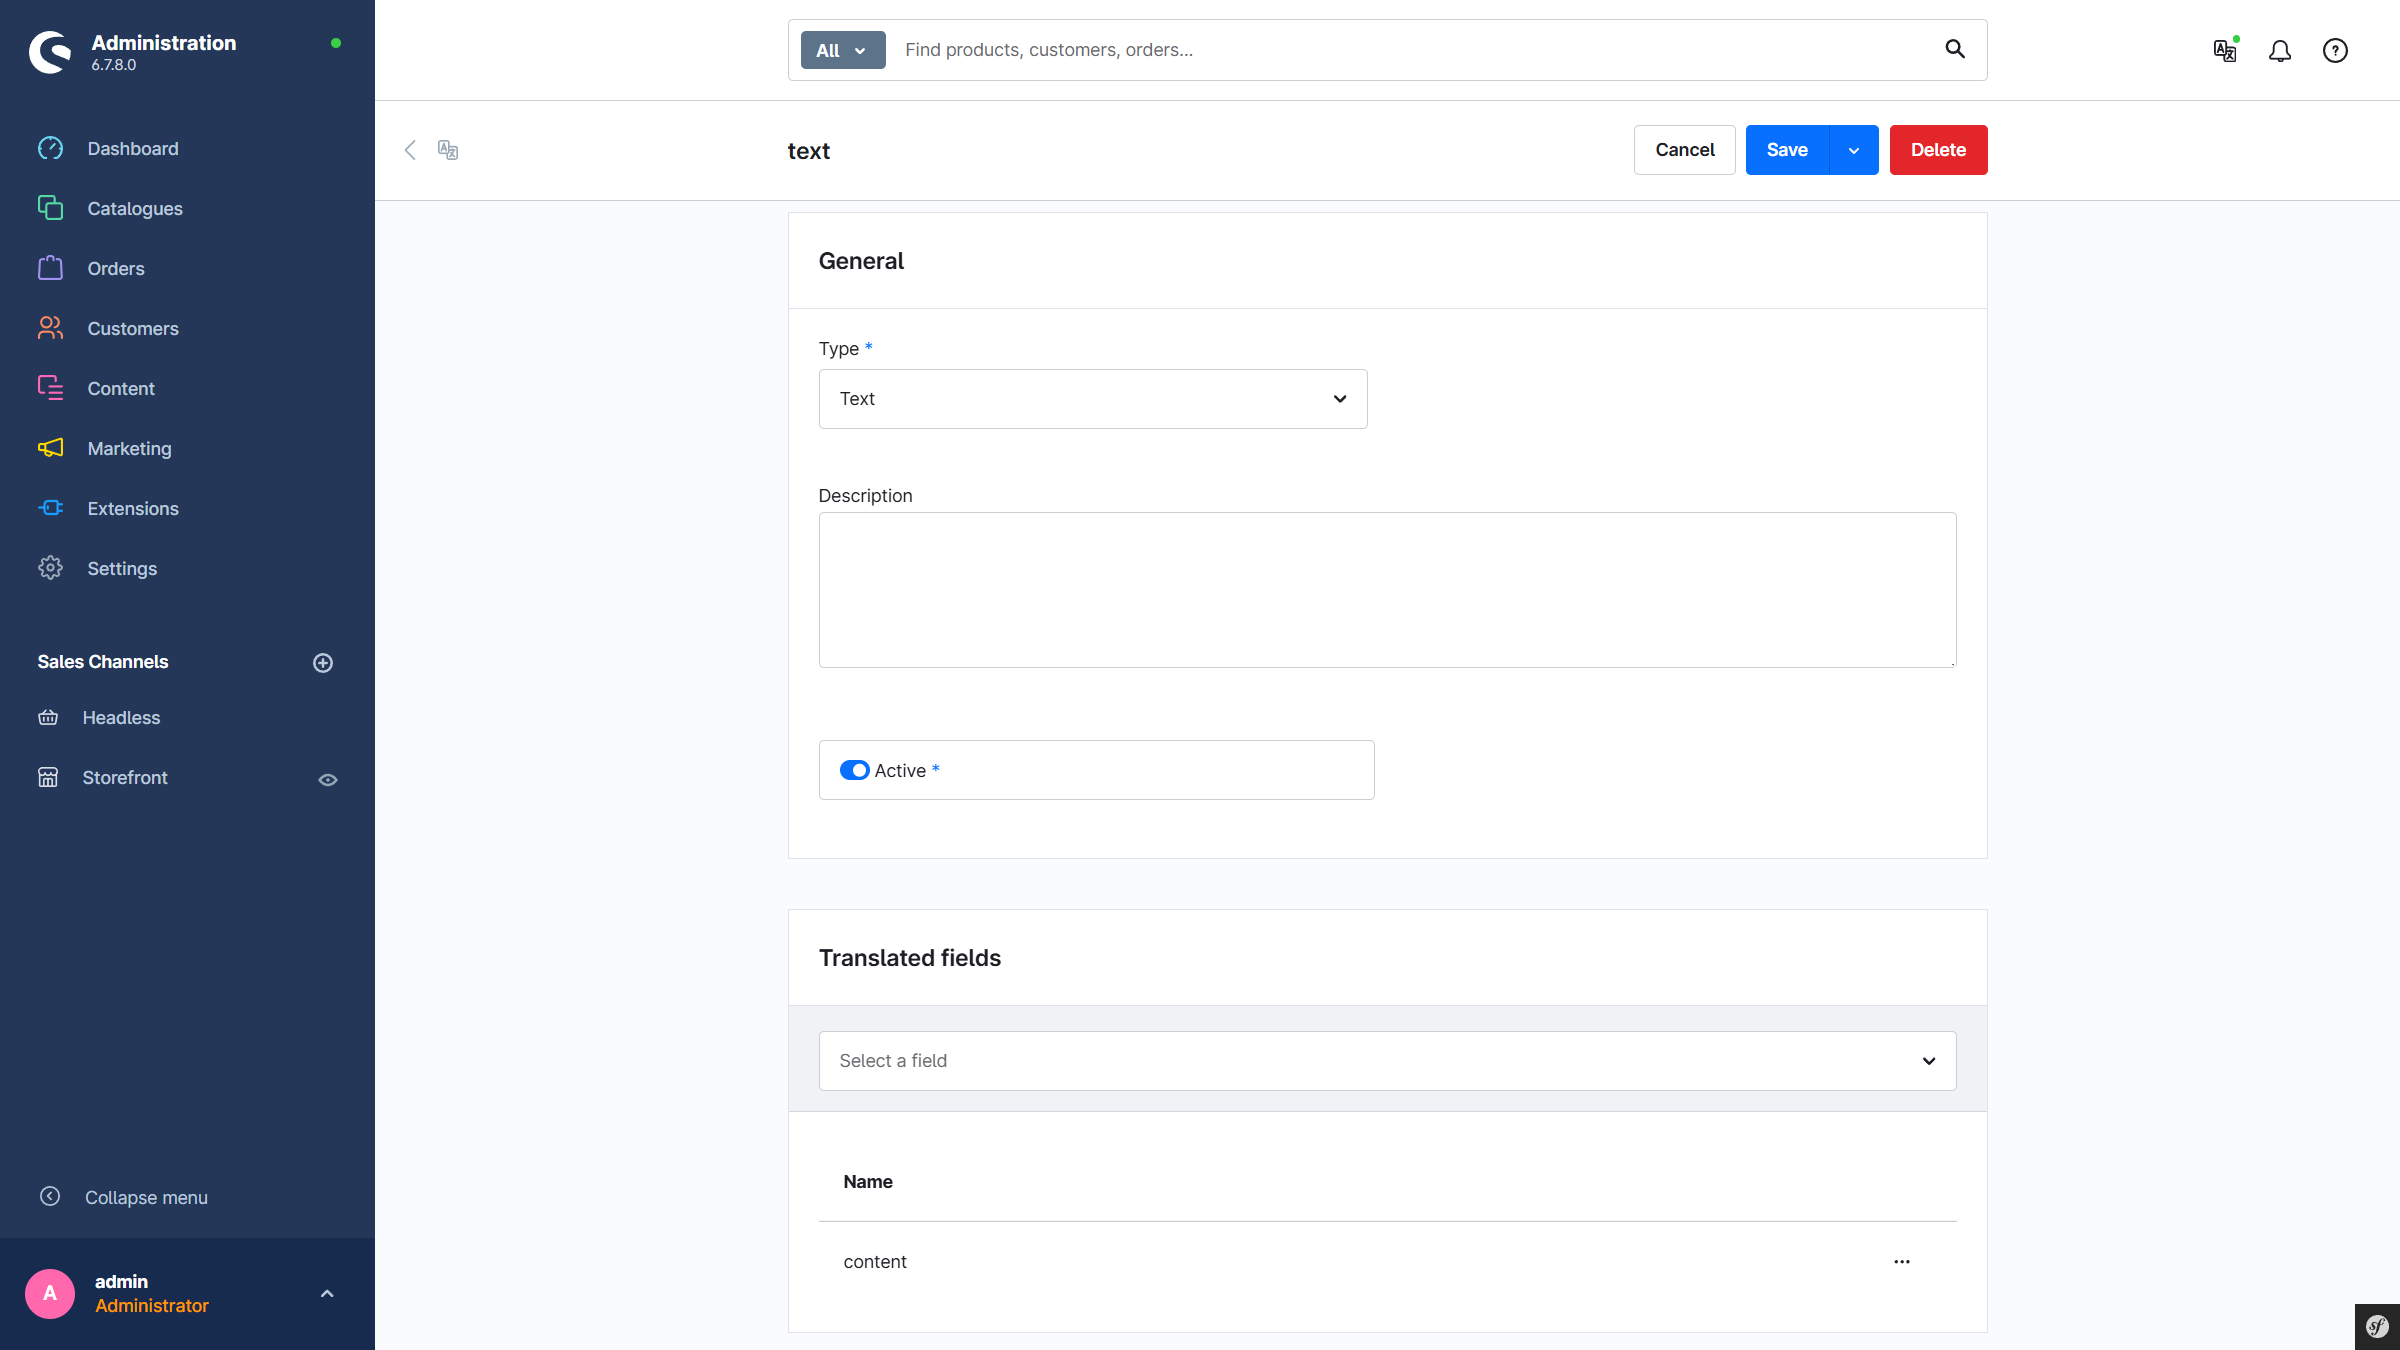
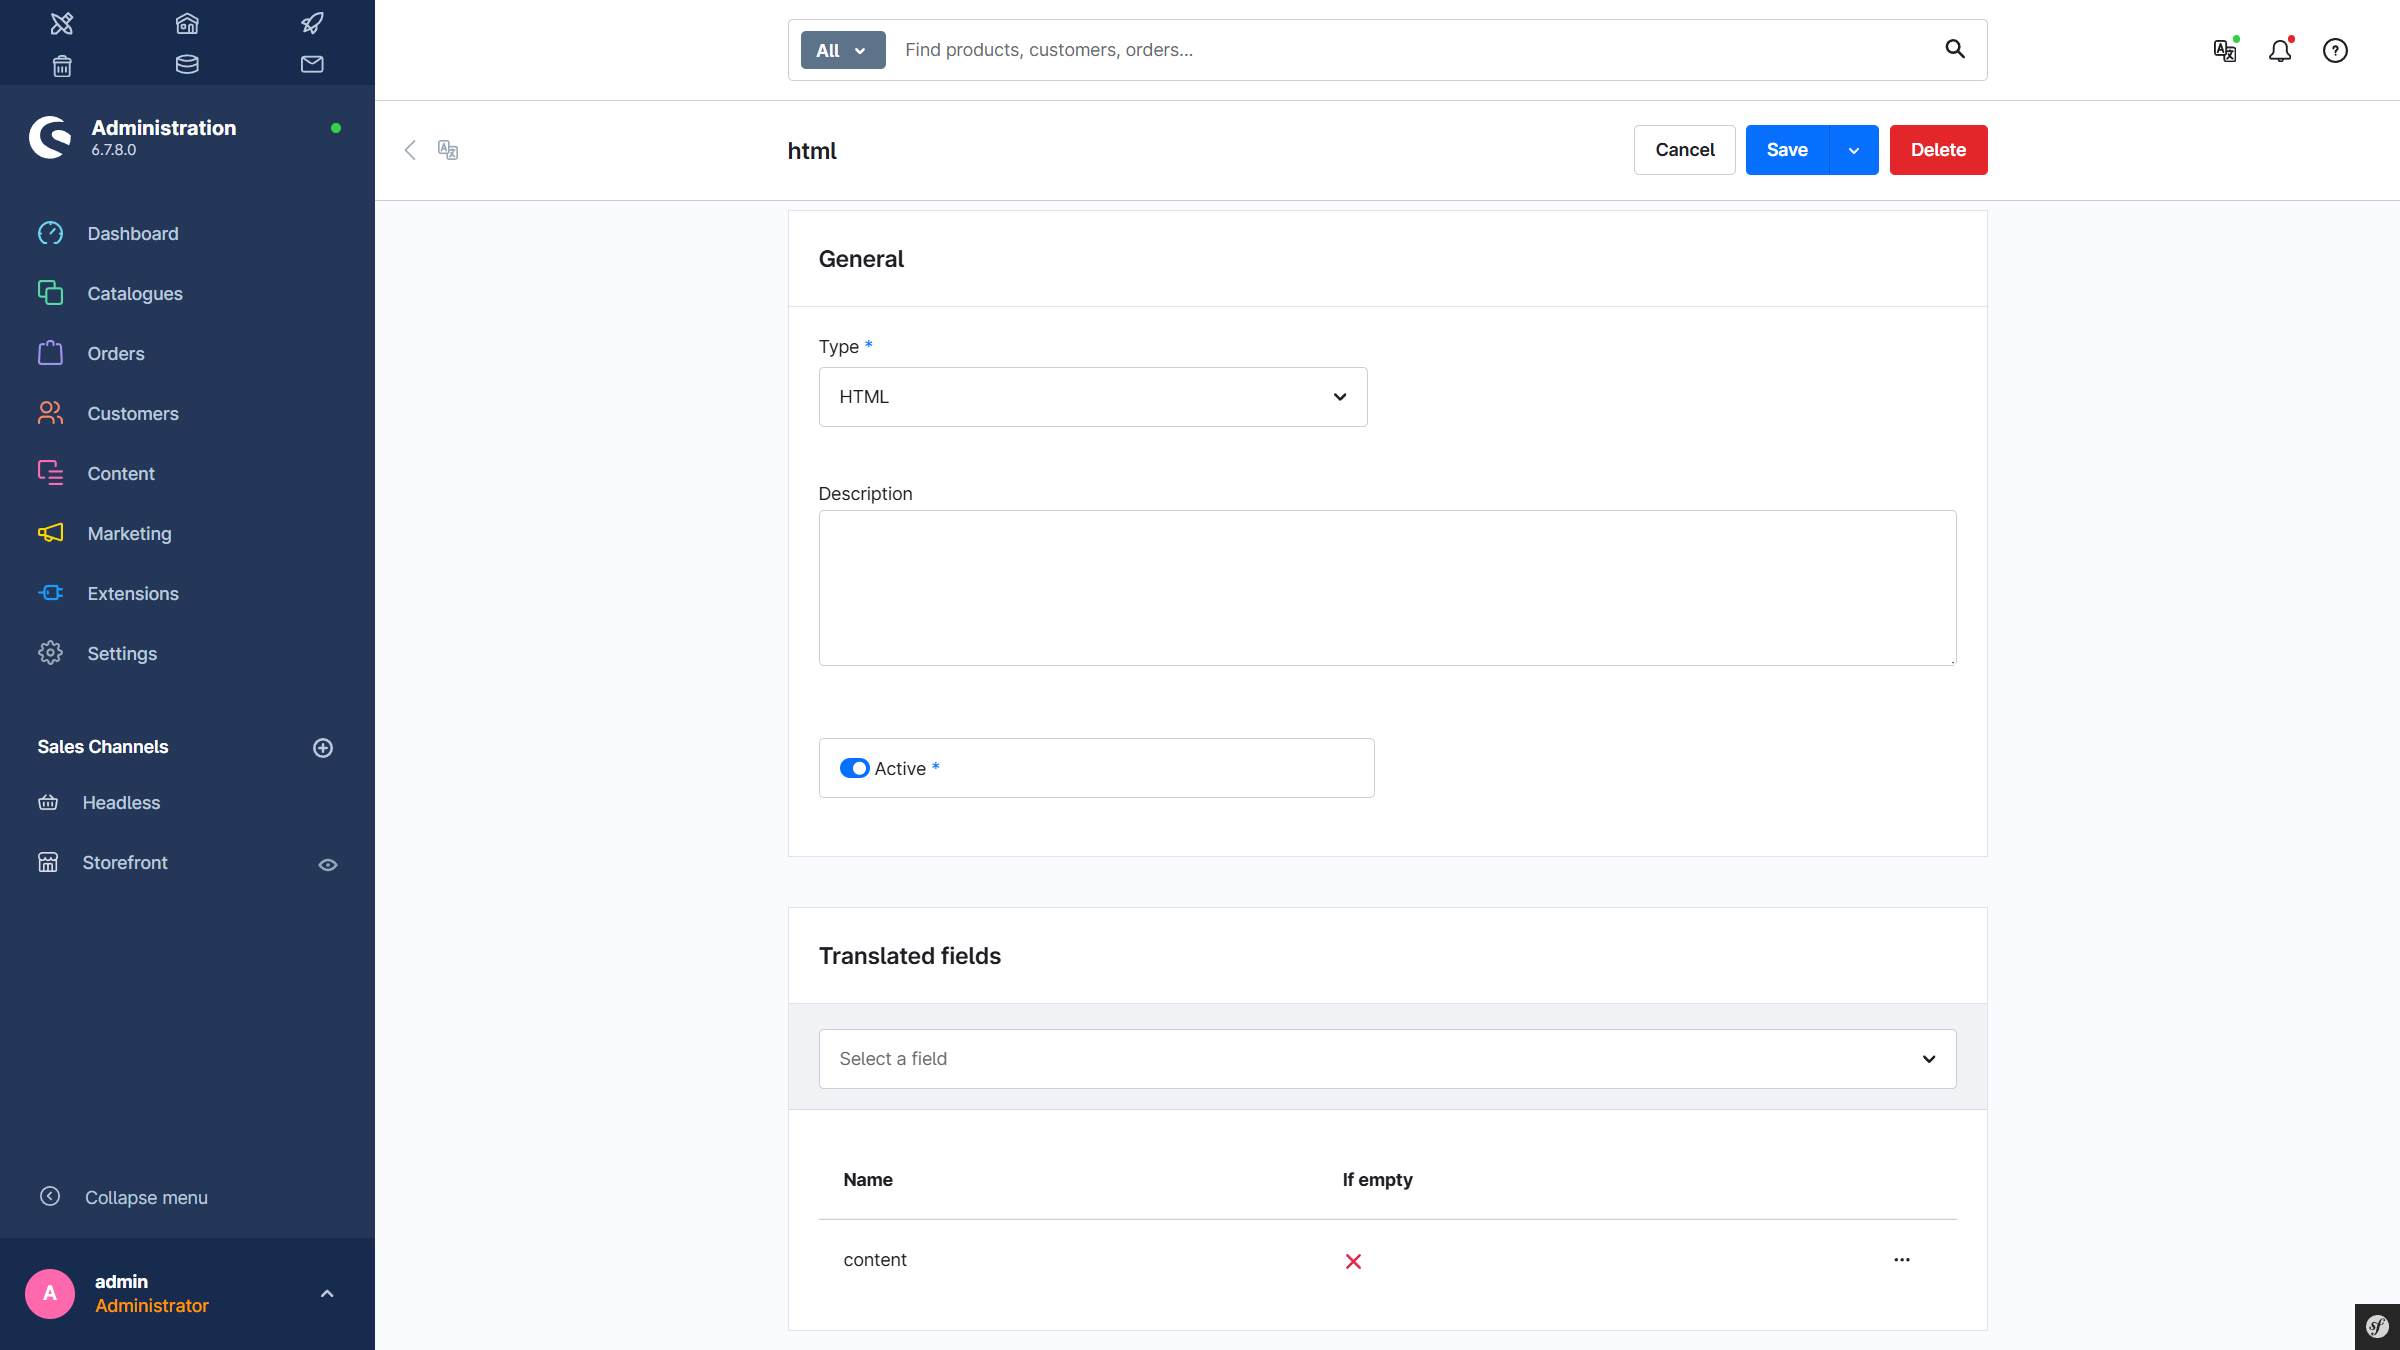
chore(sync): update docs-source/plugin/MoorlTranslator from moori-net/MoorlTranslator@141d765432ac6dcd633ad944a384d2cb9b9ff70c

diff --git a/docs-source/plugin/MoorlTranslator/index.en.md b/docs-source/plugin/MoorlTranslator/index.en.md
@@ -63,6 +63,7 @@ Click `Add`.
 **Translatable Fields:**
 
 - A list of fields that are translated automatically. Custom fields can also be translated. The `slotConfig` field is currently not yet supported.
+- `If empty` means that the field is only translated if no value exists in the target language.
 
 ### CMS Element Configuration
 
@@ -87,6 +88,7 @@ Click `Add`.
 **Translatable Fields:**
 
 - A list of fields that are translated automatically.
+- `If empty` means that the field is only translated if no value exists in the target language.
 
 ### Service Icon
 

diff --git a/docs-source/plugin/MoorlTranslator/index.md b/docs-source/plugin/MoorlTranslator/index.md
@@ -63,6 +63,7 @@ Klicken Sie auf `Hinzufügen`.
 **Übersetzbare Felder:**
 
 - Eine Liste mit Feldern, die automatisch übersetzt werden. Benutzerdefinierte Felder können ebenfalls übersetzt werden. Das Feld `slotConfig` wird derzeit noch nicht unterstützt.
+- `Wenn leer` steht dafür, dass das Feld nur übersetzt wird, wenn in der Zielsprache kein Wert vorhanden ist.
 
 ### Konfiguration der CMS-Elemente
 
